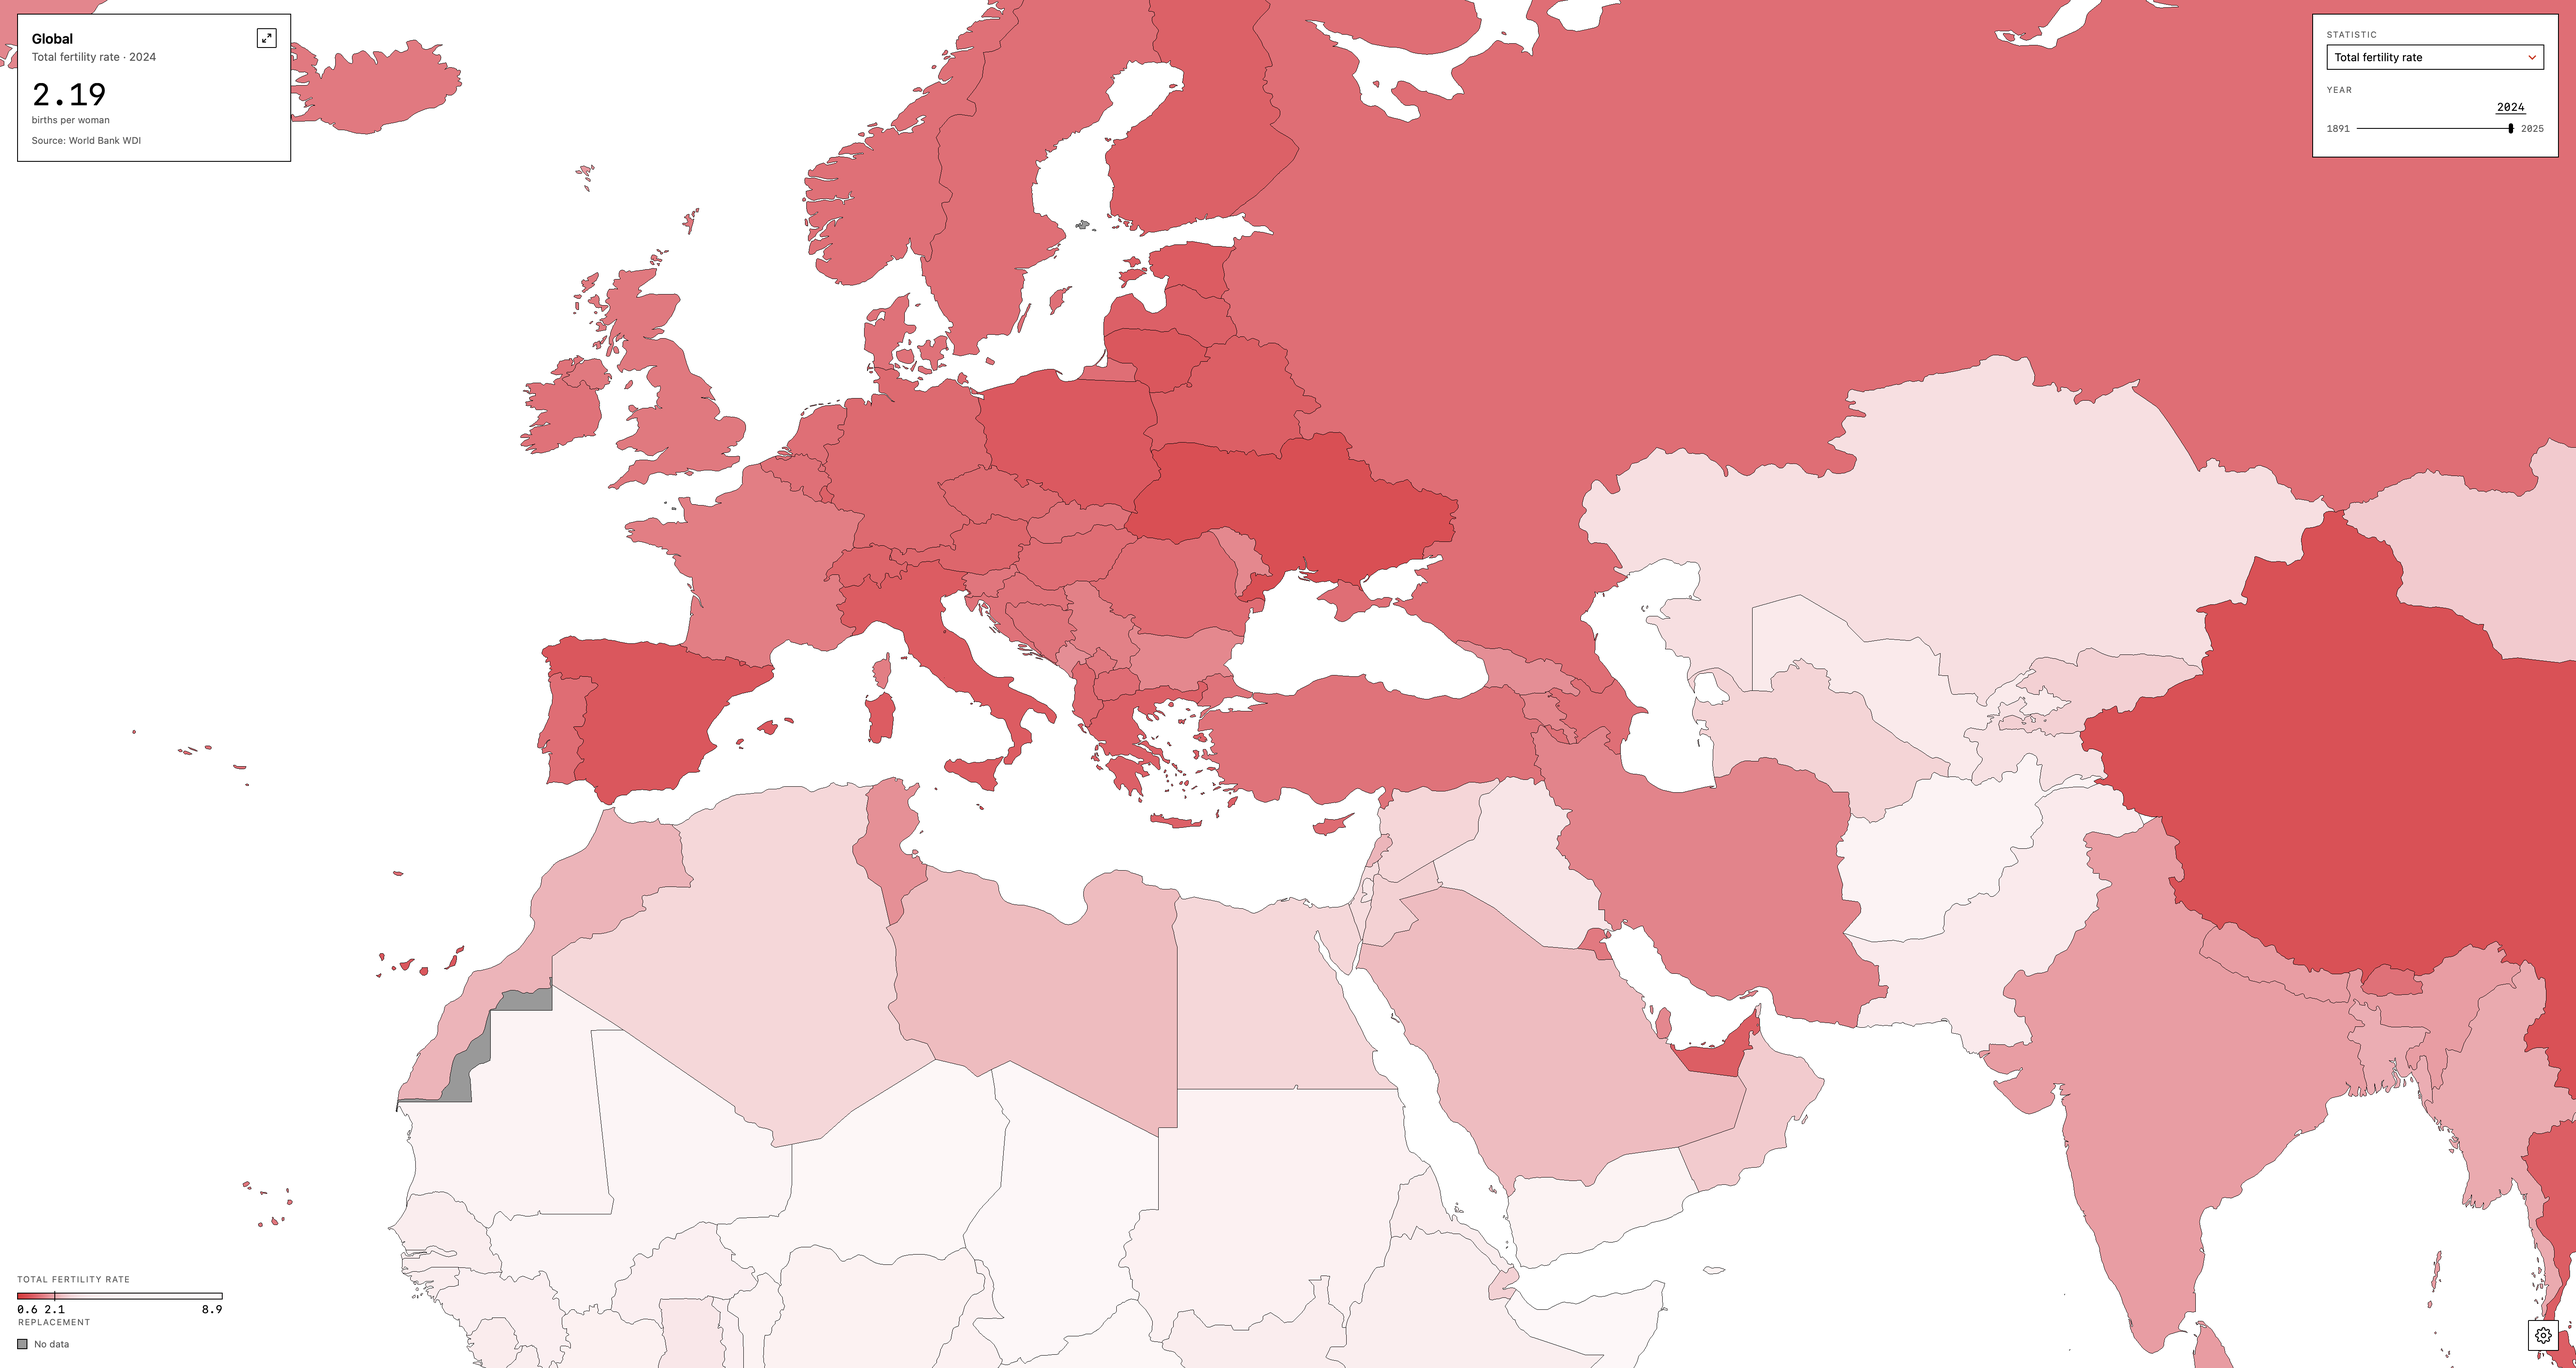
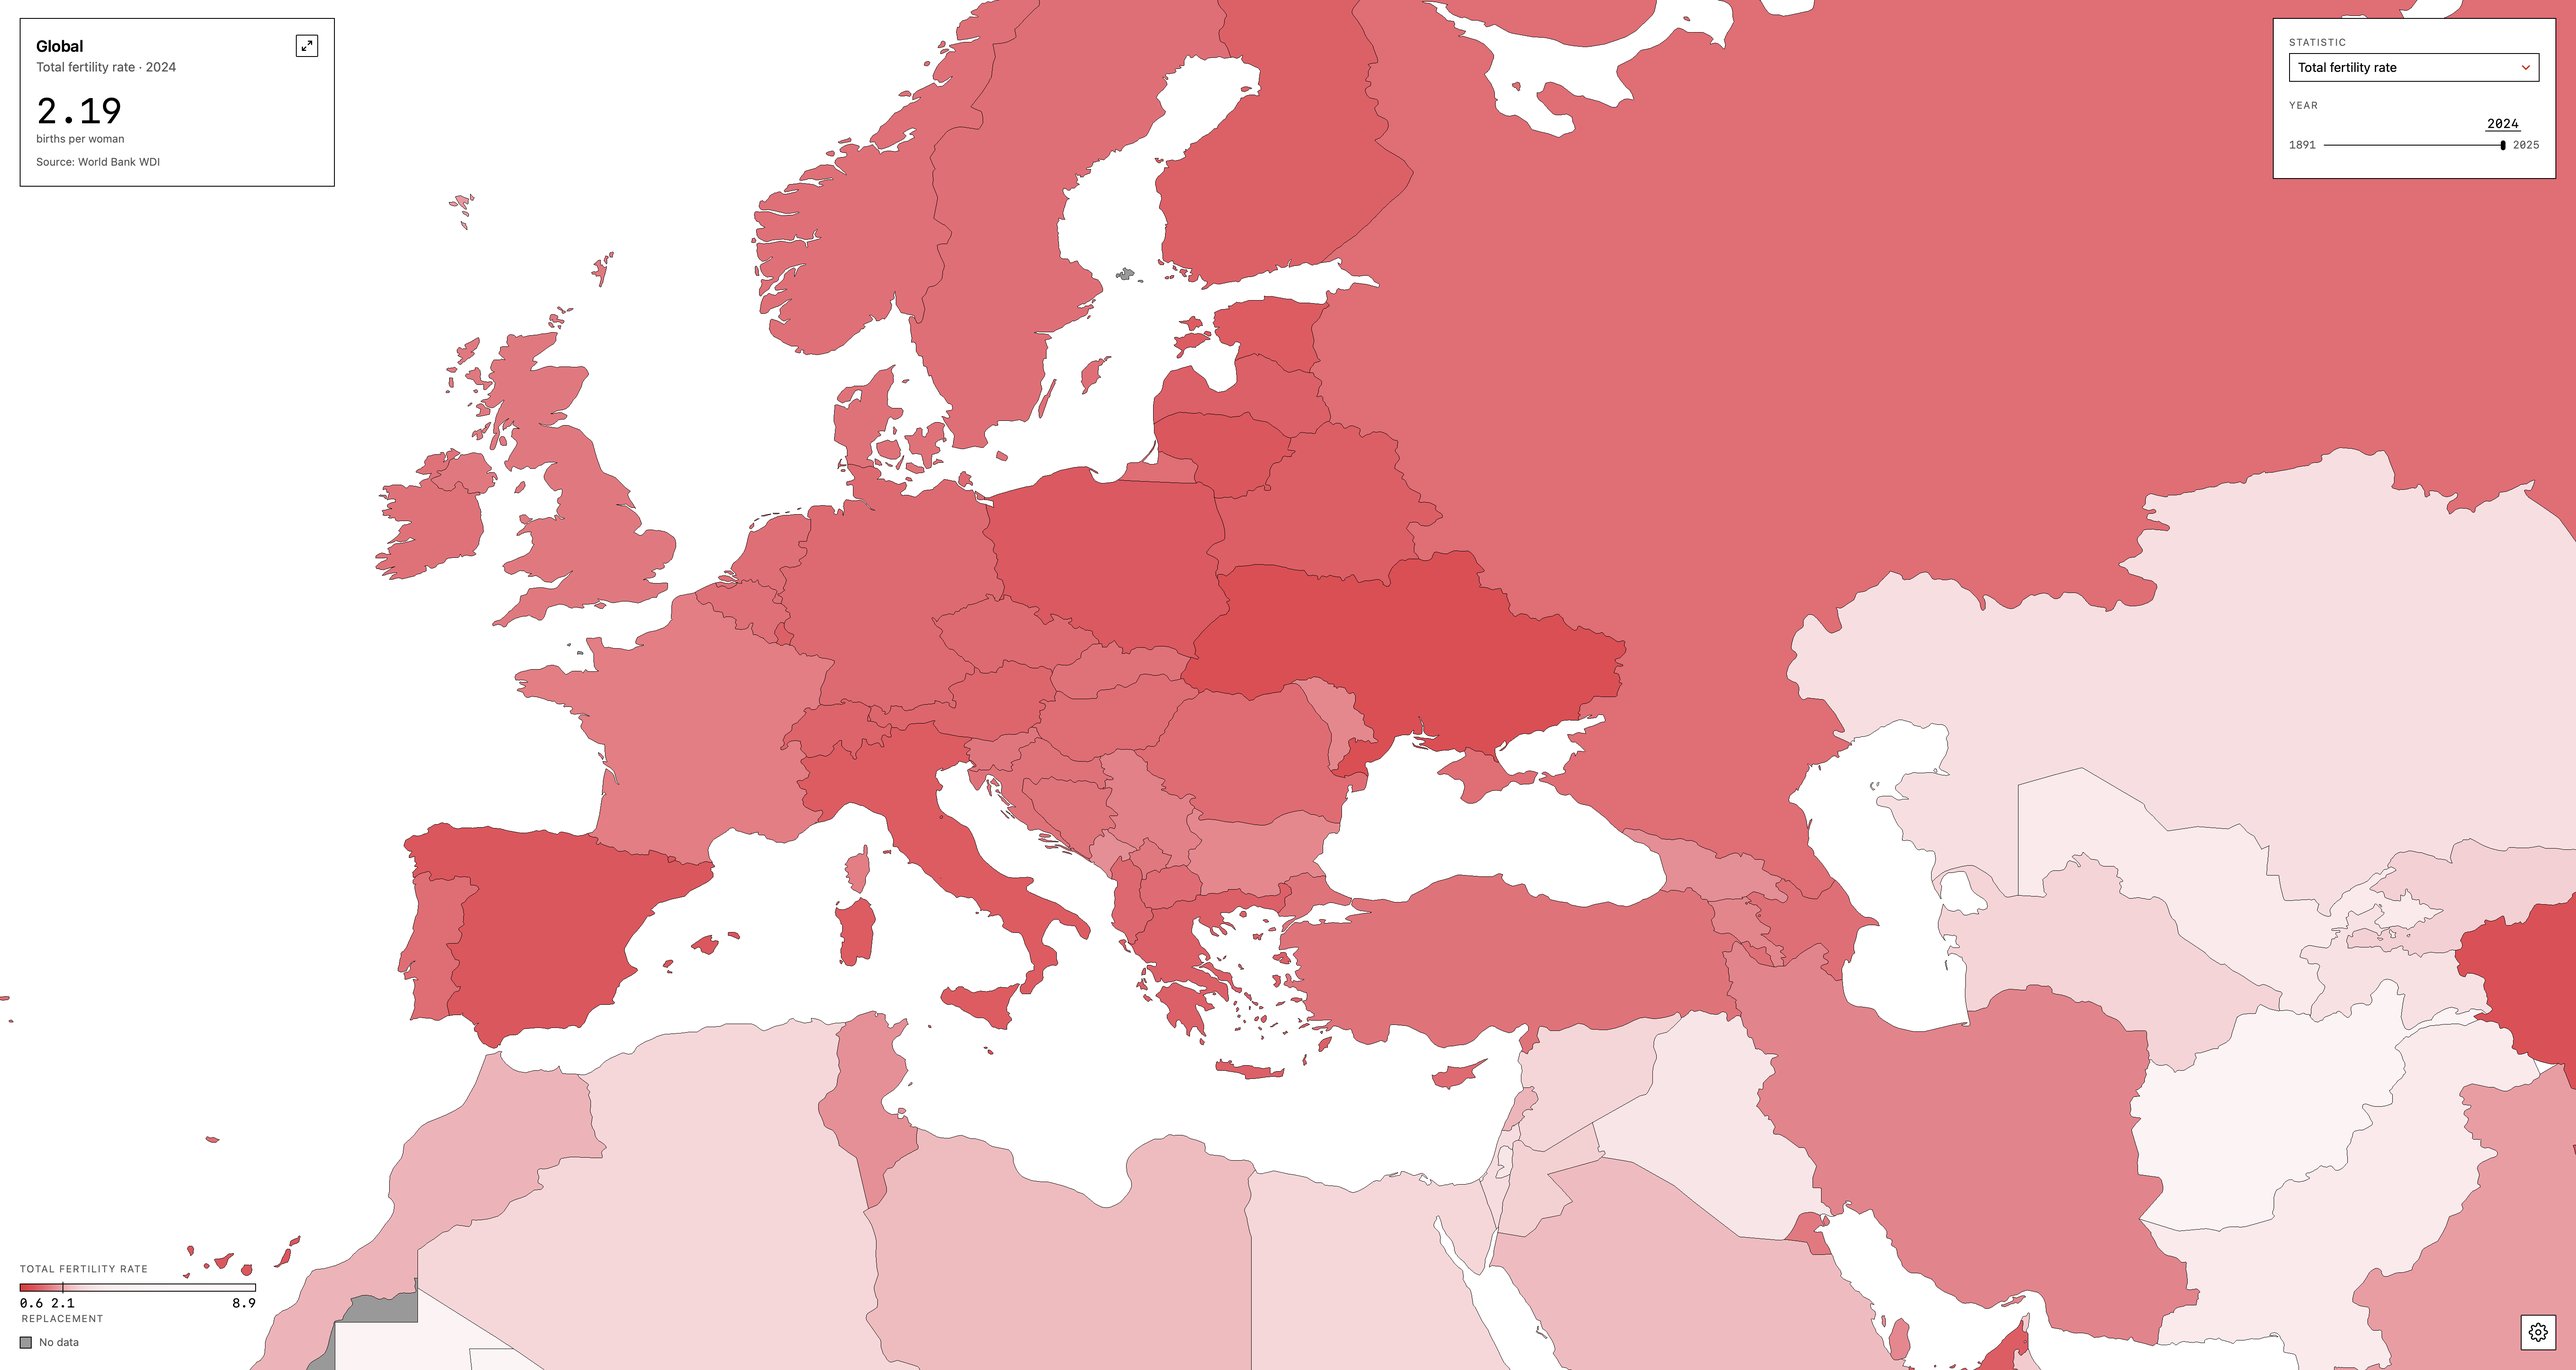
refresh the README screenshots

diff --git a/README.md b/README.md
@@ -11,6 +11,6 @@ Total fertility rate across the globe in 2024.
 
 A single region's detail panel, showing its history, the sources behind the selected value, and how the statistic is defined.
 
-![Poland detail panel for 2024](./docs/screenshots/region-detail.png)
+![Poland detail panel for 2017](./docs/screenshots/region-detail.png)
 
 </details>
